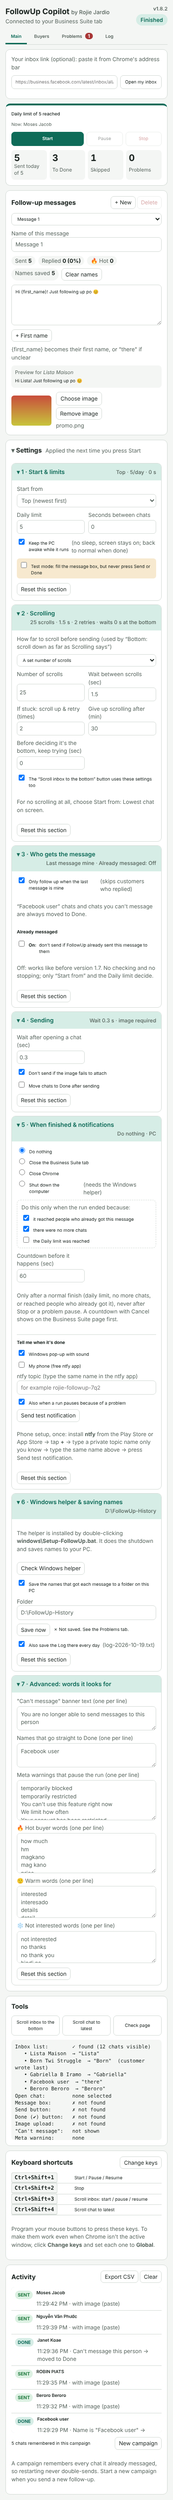
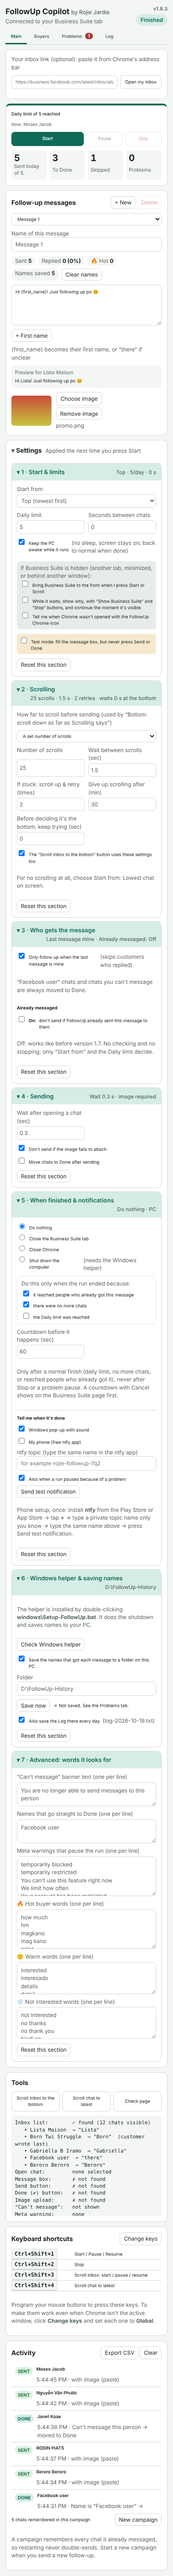
1.8.4: optional tick boxes for a hidden Business Suite window (bring to front, explain why, launcher check)
Claude-Session: https://claude.ai/code/session_01AbmNfk2RbeYzTEgTF7NAcj

Changed region(s): [[0.0579, 0.0, 0.9553, 0.9985], [0.6947, 0.0, 0.9263, 0.0936]]

diff --git a/extension/sidepanel.js b/extension/sidepanel.js
@@ -17,7 +17,7 @@ const DEF = {
   dupCheck: false, stopBy: "both", stopAfter: 3, backupOn: true, backupFolder: FollowUpEngine.DEFAULTS.backupFolder,
   notifyPC: true, notifyPhone: false, ntfyTopic: "", notifyOnPause: true, ntfyServer: "https://ntfy.sh",
   replyMode: "ask", autoCheckReplies: false, autoCheckMinutes: 10,
-  bottomWaitSec: 60, keepAwake: true, finishOnAlready: true, finishOnEnd: true, finishOnDaily: false, diaryToFile: true,
+  bottomWaitSec: 60, frontWhenHidden: false, hiddenHelp: false, launcherCheck: false, keepAwake: true, finishOnAlready: true, finishOnEnd: true, finishOnDaily: false, diaryToFile: true,
 };
 const BAD = new Set(["FAILED", "REVIEW", "UNKNOWN"]);
 let settings = {}, template = {}, templates = [], contacts = {}, history = {}, replies = {}, tabId = null, state = "idle", scrollState = "idle";
@@ -79,6 +79,9 @@ function fillForm() {
   for (const r of document.querySelectorAll("input[name=whenFinished]")) r.checked = r.value === settings.whenFinished;
   $("fiSecs").value = settings.finishCountdownSec;
   $("sAwake").checked = settings.keepAwake;
+  $("hFront").checked = !!settings.frontWhenHidden;
+  $("hHelp").checked = !!settings.hiddenHelp;
+  $("hLauncher").checked = !!settings.launcherCheck;
   $("foAlready").checked = settings.finishOnAlready;
   $("foEnd").checked = settings.finishOnEnd;
   $("foDaily").checked = settings.finishOnDaily;
@@ -131,6 +134,9 @@ function readSettings() {
   settings.whenFinished = wf ? wf.value : "nothing";
   settings.finishCountdownSec = Math.max(10, Math.round(+$("fiSecs").value || 60));
   settings.keepAwake = $("sAwake").checked;
+  settings.frontWhenHidden = $("hFront").checked;
+  settings.hiddenHelp = $("hHelp").checked;
+  settings.launcherCheck = $("hLauncher").checked;
   settings.finishOnAlready = $("foAlready").checked;
   settings.finishOnEnd = $("foEnd").checked;
   settings.finishOnDaily = $("foDaily").checked;
@@ -197,7 +203,7 @@ $("imgRemove").addEventListener("click", () => { template.imageDataUrl = ""; tem
 for (const id of ["sBetween", "sStep", "sCap", "sOrder", "sLastMine", "sSentDone", "sImgReq", "sTest", "aBlocked", "aNames", "aStop",
   "aHot", "aWarm", "aCold", "bAuto", "bLabelName", "scHow", "scCount", "scChats", "scWait", "scRetry", "scMax", "scButton", "fiSecs",
   "dCheck", "dAfter", "bkOn", "bkFolder", "nPC", "nPhone", "nTopic", "nPause", "rAuto", "rMins",
-  "sAwake", "foAlready", "foEnd", "foDaily", "bkLog", "scPatience"]) {
+  "sAwake", "foAlready", "foEnd", "foDaily", "bkLog", "scPatience", "hFront", "hHelp", "hLauncher"]) {
   $(id).addEventListener("change", readSettings);
 }
 $("aReset").addEventListener("click", () => {
@@ -269,6 +275,8 @@ chrome.runtime.onMessage.addListener((msg) => {
   if (msg.state) {
     setState(msg.state.state, msg.state.reason, msg.state.current);
     $("seeProblems").hidden = !(msg.state.state === "paused" && /Problems tab/.test(msg.state.reason || ""));
+    waitingHidden.run = msg.state.state === "running" && msg.state.code === "hidden";
+    showHiddenHelp();
   }
   if (msg.stats) showStats(msg.stats);
   if (msg.entry) {
@@ -531,7 +539,7 @@ function showSummaries() {
   put("helper", s.backupOn ? s.backupFolder : "Saving names: off");
 }
 const SECTION_KEYS = {
-  start: ["order", "dailyCap", "betweenChatsSec", "testMode", "keepAwake"],
+  start: ["order", "dailyCap", "betweenChatsSec", "testMode", "keepAwake", "frontWhenHidden", "hiddenHelp", "launcherCheck"],
   scroll: ["scrollHow", "scrollCount", "scrollChats", "scrollWaitSec", "unstickRetries", "loadAllMaxMinutes", "buttonUsesScrollSettings", "bottomWaitSec"],
   who: ["onlyIfLastFromMe", "dupCheck", "stopBy", "stopAfter"],
   send: ["stepDelayMs", "imageRequired", "moveSentToDone"],
@@ -817,6 +825,34 @@ async function tool(cmd, busy) {
     out.textContent = r.message || (r.ok ? "Done" : "Didn't work");
   }
 }
+// S2/S3 (tick boxes): while it waits because Business Suite is hidden, say why, with buttons.
+const waitingHidden = { run: false, scroll: false };
+let hiddenTimer = null;
+async function showHiddenHelp() {
+  const boxes = { run: $("hiddenRun"), scroll: $("hiddenScroll") };
+  const want = settings.hiddenHelp || settings.launcherCheck;
+  const any = want && (waitingHidden.run || waitingHidden.scroll);
+  clearTimeout(hiddenTimer);
+  if (!any) { boxes.run.hidden = boxes.scroll.hidden = true; return; }
+  const r = await hiddenReason();
+  for (const [k, box] of Object.entries(boxes)) {
+    const on = waitingHidden[k] && !!r && (settings.hiddenHelp || (settings.launcherCheck && r.covered));
+    box.hidden = !on;
+    if (!on) continue;
+    const why = box.querySelector(".hbWhy");
+    why.hidden = !settings.hiddenHelp;
+    why.textContent = `⏸ Waiting: ${r.why}. FollowUp continues the moment it's visible.`;
+    box.querySelector(".hbLaunch").hidden = !(settings.launcherCheck && r.covered);
+    box.querySelector(".hbBtns").hidden = !settings.hiddenHelp;
+  }
+  hiddenTimer = setTimeout(showHiddenHelp, 3000); // the reason can change (e.g. you switched tabs)
+}
+for (const b of document.querySelectorAll(".hbShow")) b.addEventListener("click", async () => {
+  const r = await hiddenReason();
+  if (r && r.tab) await showInboxTab(r.tab);
+});
+for (const b of document.querySelectorAll(".hbStop")) b.addEventListener("click", () => send(b.closest("#hiddenScroll") ? "stopScroll" : "stop"));
+
 // "Scroll inbox to the bottom": Start → Pause → Resume, with its own Stop.
 
 function showScroll(p) {
@@ -826,6 +862,8 @@ function showScroll(p) {
   $("tLoad").classList.toggle("primary", active);
   $("scrollBar").hidden = !active;
   if (p.message) $("scrollMsg").textContent = p.message;
+  waitingHidden.scroll = active && /^Waiting: the Business Suite window is hidden/.test(p.message || "");
+  showHiddenHelp();
   if (p.state === "done") { $("toolOut").hidden = false; $("toolOut").textContent = `${p.message} (${p.rows} chats on screen)`; }
   $("start").disabled = active || state === "running" || state === "paused";
 }

diff --git a/extension/engine.js b/extension/engine.js
@@ -67,6 +67,9 @@
     finishCountdownSec: 60,
     // "Already messaged" (Settings): never send the same message twice, and stop when the run reaches
     // people who already got it (chats you message jump to the top, so that's where the last run started).
+    frontWhenHidden: false, // S1 (tick box): bring Business Suite to the front when Start/Scroll is pressed while it's hidden
+    hiddenHelp: false, // S2 (tick box): explain why it waits, with buttons, and continue the moment it's visible
+    launcherCheck: false, // S3 (tick box): say when Chrome wasn't opened with the FollowUp Chrome icon
     waitWhenHidden: true, // F4: while the Business Suite window is hidden (minimized, screen locked), wait instead of guessing
     stallRetries: 3, // F4: when chats stop loading, wait a minute and try again this many times before deciding it's the end
     dupCheck: false, // off = works exactly like 1.6.0; on = don't send if FollowUp already sent this message to them
@@ -140,6 +143,14 @@
     if (r.width < 2 || r.height < 2) return false;
     const cs = getComputedStyle(el);
     return cs.visibility !== "hidden" && cs.display !== "none";
+  }
+  // Like sleep, but ends early when the page becomes visible or hidden (S2: continue the moment it's visible).
+  function sleepOrVisible(ms) {
+    return new Promise((res) => {
+      const done = () => { document.removeEventListener("visibilitychange", done); clearTimeout(t); res(); };
+      const t = setTimeout(done, ms);
+      document.addEventListener("visibilitychange", done);
+    });
   }
   async function waitFor(fn, timeoutMs, everyMs = 200) {
     const end = Date.now() + timeoutMs;
@@ -950,7 +961,7 @@
       // F4: a hidden window can't load chats, so wait for it instead of mistaking it for the end of the inbox.
       if (this.cfg.waitWhenHidden !== false && typeof document !== "undefined" && document.hidden) {
         this.hooks.state({ state: "running", reason: "Waiting: the Business Suite window is hidden (minimized or screen locked). It continues by itself when it's visible.", code: "hidden" });
-        while (document.hidden && !this.stopped && !this.paused) await sleep(1000);
+        while (document.hidden && !this.stopped && !this.paused) await (this.cfg.hiddenHelp ? sleepOrVisible(1000) : sleep(1000));
         if (this.stopped) throw STOP;
         this.hooks.state({ state: "running", reason: "Visible again, continuing.", code: "visible" });
         await this.gate();
@@ -1237,7 +1248,7 @@
           // F4: a hidden window can't load chats; wait instead of deciding it's the bottom.
           report("running", `Waiting: the Business Suite window is hidden (${seen.size} chats loaded so far). It continues when it's visible.`);
           const t0 = Date.now();
-          while (document.hidden && !scrollJob.cancel) await sleep(1000);
+          while (document.hidden && !scrollJob.cancel) await (cfg.hiddenHelp ? sleepOrVisible(1000) : sleep(1000));
           end += Date.now() - t0;
           if (!scrollJob.cancel) report("running", "Visible again, scrolling…");
         }

diff --git a/extension/sidepanel.html b/extension/sidepanel.html
@@ -107,6 +107,11 @@
 <section class="card run">
   <div id="reason" class="reason">Press Start when your Inbox is open.</div>
   <button id="seeProblems" class="small" hidden>See what went wrong and how to fix it →</button>
+  <div id="hiddenRun" class="hiddenbox" hidden>
+    <div class="hbWhy"></div>
+    <div class="hbLaunch" hidden>Chrome wasn't opened with the <b>FollowUp Chrome</b> icon, so a window that's covered counts as hidden. To fix: close all Chrome windows (also Chrome in the taskbar tray), then open Chrome with the FollowUp Chrome icon on your desktop.</div>
+    <div class="hbBtns"><button class="small primary hbShow">Show Business Suite</button><button class="small danger hbStop">Stop</button></div>
+  </div>
   <div id="current" class="current"></div>
   <div id="finishBar" class="finishbar" hidden>
     <span id="finishText">In 60 s: shut down the computer</span>
@@ -161,6 +166,12 @@
         <label>Seconds between chats<input id="sBetween" type="number" min="0" step="1"></label>
       </div>
       <label class="check"><input id="sAwake" type="checkbox"> Keep the PC awake while it runs <span class="hint">(no sleep, screen stays on; back to normal when done)</span></label>
+      <div class="hidopts">
+        <div class="hint">If Business Suite is hidden (another tab, minimized, or behind another window):</div>
+        <label class="check"><input id="hFront" type="checkbox"> Bring Business Suite to the front when I press Start or Scroll</label>
+        <label class="check"><input id="hHelp" type="checkbox"> While it waits, show why, with “Show Business Suite” and “Stop” buttons, and continue the moment it's visible</label>
+        <label class="check"><input id="hLauncher" type="checkbox"> Tell me when Chrome wasn't opened with the FollowUp Chrome icon</label>
+      </div>
       <label class="check test"><input id="sTest" type="checkbox"> Test mode: fill the message box, but never press Send or Done</label>
       <button class="small reset" data-reset="start">Reset this section</button>
     </div>
@@ -293,6 +304,11 @@
   <div id="scrollBar" class="scrollbar" hidden>
     <span id="scrollMsg">Scrolling…</span>
     <button id="tLoadStop" class="small danger">Stop scrolling</button>
+  </div>
+  <div id="hiddenScroll" class="hiddenbox" hidden>
+    <div class="hbWhy"></div>
+    <div class="hbLaunch" hidden>Chrome wasn't opened with the <b>FollowUp Chrome</b> icon, so a window that's covered counts as hidden. To fix: close all Chrome windows (also Chrome in the taskbar tray), then open Chrome with the FollowUp Chrome icon on your desktop.</div>
+    <div class="hbBtns"><button class="small primary hbShow">Show Business Suite</button><button class="small danger hbStop">Stop</button></div>
   </div>
   <pre id="toolOut" class="toolout" hidden></pre>
 </section>

diff --git a/extension/connect.js b/extension/connect.js
@@ -48,6 +48,34 @@ async function openInbox(url) {
   return chrome.tabs.create({ url: url || DEFAULT_INBOX, active: true });
 }
 
+// S1: if the inbox isn't showing (another tab on top, minimized, or its window is behind another one),
+// bring it to the front. Only when "Bring Business Suite to the front" is ticked.
+const FRONT_CMDS = ["start", "toggleRun", "resume", "loadInbox", "toggleScroll", "resumeScroll"];
+async function showInboxTab(tab) {
+  await chrome.tabs.update(tab.id, { active: true });
+  await chrome.windows.update(tab.windowId, { focused: true });
+}
+async function frontIfHidden(tab) {
+  try {
+    const win = await chrome.windows.get(tab.windowId);
+    if (tab.active && win.state !== "minimized" && win.focused) return false;
+    await showInboxTab(tab);
+    await new Promise((r) => setTimeout(r, 700)); // let the page become visible before it starts
+    return true;
+  } catch (_) { return false; }
+}
+// Why the inbox page counts as hidden, in plain words (S2/S3).
+async function hiddenReason() {
+  const tab = await findInboxTab(await savedAssetId());
+  if (!tab) return null;
+  try {
+    const win = await chrome.windows.get(tab.windowId);
+    if (win.state === "minimized") return { tab, covered: false, why: "the Business Suite window is minimized" };
+    if (!tab.active) return { tab, covered: false, why: "Business Suite isn't the tab showing in its window (another tab is on top)" };
+    return { tab, covered: true, why: "the Business Suite window is behind another window (or the screen is locked)" };
+  } catch (_) { return null; }
+}
+
 async function sendToInbox(cmd, extra) {
   const assetId = await savedAssetId();
   const tab = await findInboxTab(assetId);
@@ -55,6 +83,10 @@ async function sendToInbox(cmd, extra) {
   const tabAsset = assetIdOf(tab.url);
   if (START_CMDS.includes(cmd) && assetId && tabAsset && tabAsset !== assetId) {
     return { ok: false, tab, wrongPage: true, message: `The open inbox is a different Facebook Page (id ${tabAsset}) than your saved link (id ${assetId}). Press “Open my inbox” first.` };
+  }
+  if (FRONT_CMDS.includes(cmd)) {
+    const { settings } = await chrome.storage.local.get("settings");
+    if (settings && settings.frontWhenHidden) await frontIfHidden(tab);
   }
   const msg = Object.assign({ to: "content", cmd }, extra || {});
   try {

diff --git a/extension/sidepanel.css b/extension/sidepanel.css
@@ -85,6 +85,10 @@ details[open] > summary h2::before { content: "▾ "; }
 @media (max-width: 330px) { .tools, .grid { grid-template-columns: 1fr; } .counts { grid-template-columns: 1fr 1fr; } }
 .scrollbar { display: flex; justify-content: space-between; align-items: center; gap: 8px; background: var(--warn-soft); border-radius: 7px; padding: 6px 8px; }
 .scrollbar[hidden] { display: none; }
+.hidopts { margin: 6px 0 2px; padding: 6px 8px; border-radius: 7px; background: var(--sunk); }
+.hiddenbox { background: var(--warn-soft); color: var(--fg); border-radius: 7px; padding: 8px; margin: 6px 0; font-size: 12.5px; line-height: 1.4; }
+.hiddenbox .hbLaunch { margin-top: 6px; }
+.hiddenbox .hbBtns { display: flex; gap: 6px; margin-top: 6px; }
 .keys { border-collapse: collapse; width: 100%; }
 .keys td { padding: 4px 0; border-bottom: 1px solid var(--line); }
 .keys td:first-child { width: 42%; }

diff --git a/tests/test_extension.py b/tests/test_extension.py
@@ -644,3 +644,84 @@ def test_version_shows_above_the_status(ext):
     assert panel.text_content("#ver") == "v" + want
     ver, pill = panel.locator("#ver").bounding_box(), panel.locator("#pill").bounding_box()
     assert ver["y"] + ver["height"] <= pill["y"] + 1
+
+
+FAKE_HIDDEN = """async (on) => {
+  const [t] = await chrome.tabs.query({ url: "https://business.facebook.com/*" });
+  await chrome.scripting.executeScript({ target: { tabId: t.id }, args: [on], func: (on) => {
+    if (!window.__fakeHiddenSet) { Object.defineProperty(document, "hidden", { configurable: true, get: () => !!window.__fakeHidden }); window.__fakeHiddenSet = true; }
+    window.__fakeHidden = on; document.dispatchEvent(new Event("visibilitychange"));
+  } });
+}"""
+INBOX_ACTIVE = """async () => (await chrome.tabs.query({ url: "https://business.facebook.com/*" }))[0].active"""
+
+
+def _tick(panel, ids, on=True):
+    _open_settings(panel)
+    for i in ids:
+        panel.evaluate("([i, on]) => { const el = document.getElementById(i); el.checked = on; el.dispatchEvent(new Event('change')); }", [i, on])
+
+
+def test_hidden_window_options_are_off_by_default_and_change_nothing(ext):
+    inbox, panel, _ = ext
+    _open_settings(panel)
+    assert not any(panel.is_checked(f"#{i}") for i in ("hFront", "hHelp", "hLauncher"))
+    panel.evaluate(FAKE_HIDDEN, True)
+    panel.click("#tLoad")
+    panel.wait_for_selector("#scrollMsg:has-text('Waiting: the Business Suite window is hidden')")
+    panel.wait_for_timeout(500)
+    assert panel.is_hidden("#hiddenScroll") and not panel.evaluate(INBOX_ACTIVE)  # same as before: just the message
+    panel.click("#tLoadStop")
+    panel.wait_for_selector("#scrollBar", state="hidden")
+
+
+def test_hidden_window_shows_why_with_buttons_and_continues_when_visible(ext):
+    inbox, panel, _ = ext
+    _tick(panel, ["hHelp", "hLauncher"])
+    panel.evaluate(FAKE_HIDDEN, True)
+    panel.click("#tLoad")
+    # Business Suite isn't the tab showing (the panel is), so that's the reason given.
+    panel.wait_for_selector("#hiddenScroll .hbWhy:has-text(\"isn't the tab showing\")")
+    assert panel.is_hidden("#hiddenScroll .hbLaunch")
+    # Showing Business Suite: tab active and window in front → now it's "behind another window" + launcher tip.
+    panel.click("#hiddenScroll .hbShow")
+    assert panel.evaluate(INBOX_ACTIVE)
+    panel.wait_for_selector("#hiddenScroll .hbLaunch", state="visible", timeout=8000)
+    assert "behind another window" in panel.text_content("#hiddenScroll .hbWhy")
+    # Visible again: it continues straight away and the box goes.
+    panel.evaluate(FAKE_HIDDEN, False)
+    panel.wait_for_selector("#hiddenScroll", state="hidden", timeout=3000)
+    assert "Waiting" not in panel.text_content("#scrollMsg")
+    if panel.is_visible("#tLoadStop"):
+        panel.click("#tLoadStop")
+    panel.wait_for_selector("#scrollBar", state="hidden", timeout=15000)
+    # Stop button in the box works too.
+    panel.bring_to_front()
+    panel.evaluate(FAKE_HIDDEN, True)
+    panel.click("#tLoad")
+    panel.wait_for_selector("#hiddenScroll .hbStop", state="visible")
+    panel.click("#hiddenScroll .hbStop")
+    panel.wait_for_selector("#scrollBar", state="hidden")
+    assert panel.is_hidden("#hiddenScroll")
+
+
+def test_bring_business_suite_to_the_front_when_ticked(ext):
+    inbox, panel, _ = ext
+    _tick(panel, ["hFront"])
+    panel.bring_to_front()
+    assert not panel.evaluate(INBOX_ACTIVE)
+    panel.click("#tLoad")
+    assert panel.evaluate(INBOX_ACTIVE)
+    if panel.is_visible("#tLoadStop"):
+        panel.click("#tLoadStop")
+
+
+def test_hidden_window_help_also_shows_for_a_run(ext):
+    inbox, panel, _ = ext
+    _tick(panel, ["hHelp"])
+    panel.evaluate(FAKE_HIDDEN, True)
+    panel.click("#start")
+    panel.wait_for_selector("#hiddenRun .hbWhy:has-text('Waiting')", timeout=15000)
+    panel.click("#hiddenRun .hbStop")
+    panel.wait_for_selector("#pill:has-text('Stopped')", timeout=15000)
+    panel.wait_for_selector("#hiddenRun", state="hidden")

diff --git a/README.md b/README.md
@@ -63,6 +63,19 @@ Safety rules built into both versions:
    **Open my inbox** takes you straight there, and the app refuses to run on a different Facebook Page
    by mistake. The badge at the top says **Ready** when it's connected.
 
+## New in 1.8.4
+
+Three new tick boxes in **Settings → 1 · Start & limits**, all **off** by default (nothing changes until you tick them).
+They help when Business Suite is hidden (another tab on top, minimized, or behind another window), which makes
+FollowUp wait instead of scrolling:
+
+* **Bring Business Suite to the front when I press Start or Scroll.**
+* **While it waits, show why**, with **Show Business Suite** and **Stop** buttons, and continue the moment it's visible.
+* **Tell me when Chrome wasn't opened with the FollowUp Chrome icon** (that icon keeps a covered window working).
+
+![Tick boxes](docs/screenshots/option-a-hidden-options.png)
+![Why it waits](docs/screenshots/option-a-hidden-covered.png)
+
 ## New in 1.8.3
 
 * **"Facebook user" chats no longer pause the follow-up.**
